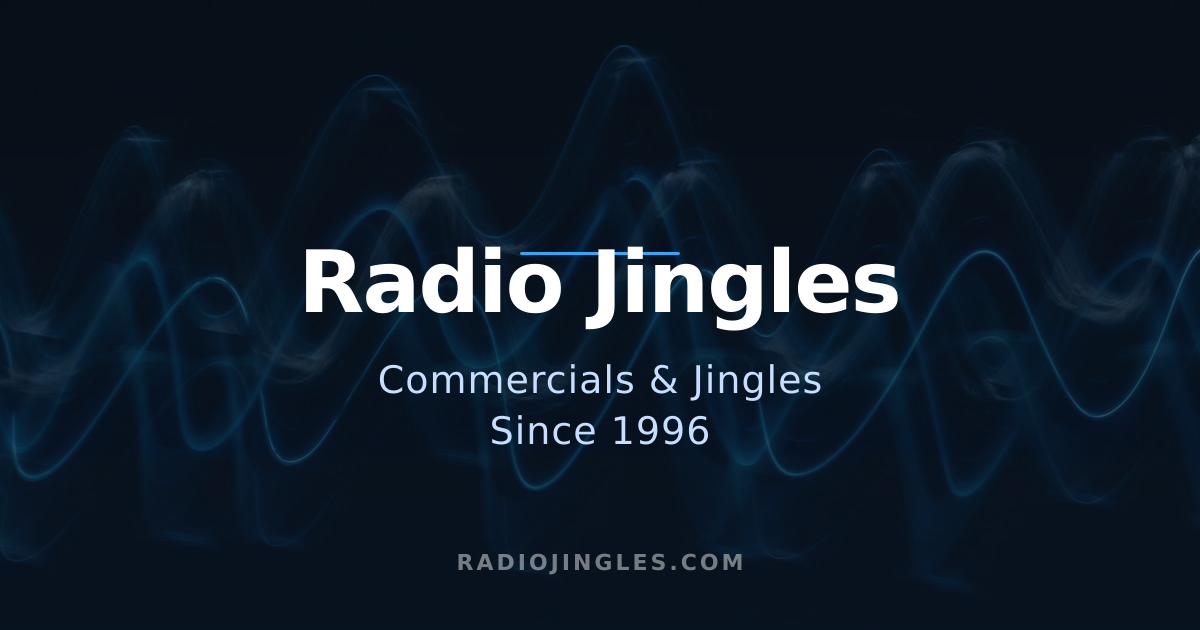
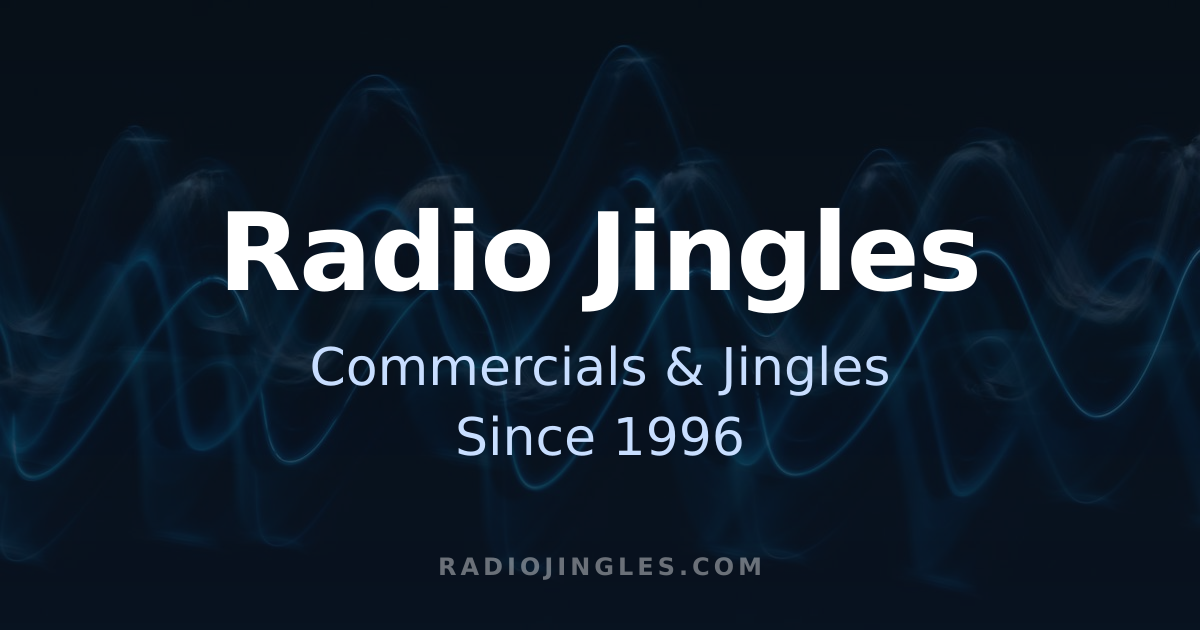
Update website preview card with larger text and no accent line
Modify `generate-og-image.js` to increase font sizes and remove the blue accent rectangle, updating the `og-image.png` and `agent_assets_metadata.toml` accordingly.

Replit-Commit-Author: Agent
Replit-Commit-Session-Id: 978dd345-0437-45ba-96af-3ea33944abd2
Replit-Commit-Checkpoint-Type: full_checkpoint
Replit-Commit-Event-Id: 69d44d95-7003-4638-9bc6-1527cc20011f
Replit-Commit-Screenshot-Url: https://storage.googleapis.com/screenshot-production-us-central1/bdf5499a-d67b-4393-9cde-f891f2050c7e/978dd345-0437-45ba-96af-3ea33944abd2/OOSFuEa
Replit-Helium-Checkpoint-Created: true

Changed region(s): [[0.185, 0.3317, 0.8325, 0.6333], [0.37, 0.8746, 0.6475, 0.9349], [0.37, 0.6635, 0.6167, 0.7238]]

diff --git a/scripts/generate-og-image.js b/scripts/generate-og-image.js
@@ -13,24 +13,21 @@ const svg = `<svg width="${W}" height="${H}" xmlns="http://www.w3.org/2000/svg">
   </defs>
   <rect width="${W}" height="${H}" fill="url(#overlay)"/>
 
-  <!-- Accent rule -->
-  <rect x="520" y="252" width="160" height="3" rx="2" fill="#2da9ff"/>
-
   <!-- Main headline -->
-  <text x="600" y="312" font-family="Arial Black, Arial, sans-serif" font-weight="900"
-        font-size="86" fill="#ffffff" text-anchor="middle" letter-spacing="-2">Radio Jingles</text>
+  <text x="600" y="290" font-family="Arial Black, Arial, sans-serif" font-weight="900"
+        font-size="108" fill="#ffffff" text-anchor="middle" letter-spacing="-2">Radio Jingles</text>
 
   <!-- Sub-line 1 -->
-  <text x="600" y="393" font-family="Arial, sans-serif" font-weight="400"
-        font-size="38" fill="#c8deff" text-anchor="middle" letter-spacing="1">Commercials &amp; Jingles</text>
+  <text x="600" y="385" font-family="Arial, sans-serif" font-weight="400"
+        font-size="52" fill="#c8deff" text-anchor="middle" letter-spacing="0">Commercials &amp; Jingles</text>
 
   <!-- Sub-line 2 -->
-  <text x="600" y="444" font-family="Arial, sans-serif" font-weight="400"
-        font-size="38" fill="#c8deff" text-anchor="middle" letter-spacing="1">Since 1996</text>
+  <text x="600" y="455" font-family="Arial, sans-serif" font-weight="400"
+        font-size="52" fill="#c8deff" text-anchor="middle" letter-spacing="0">Since 1996</text>
 
   <!-- Domain watermark -->
-  <text x="600" y="570" font-family="Arial, sans-serif" font-weight="600"
-        font-size="22" fill="rgba(255,255,255,0.45)" text-anchor="middle" letter-spacing="3">RADIOJINGLES.COM</text>
+  <text x="600" y="575" font-family="Arial, sans-serif" font-weight="600"
+        font-size="24" fill="rgba(255,255,255,0.40)" text-anchor="middle" letter-spacing="4">RADIOJINGLES.COM</text>
 </svg>`;
 
 async function generate() {
